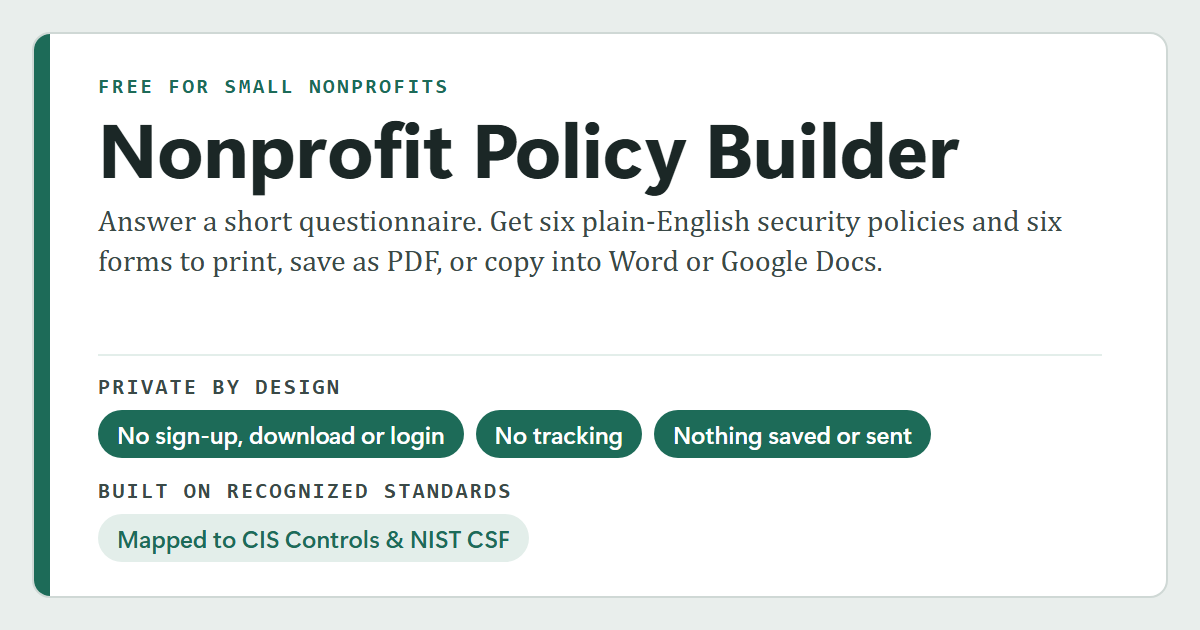
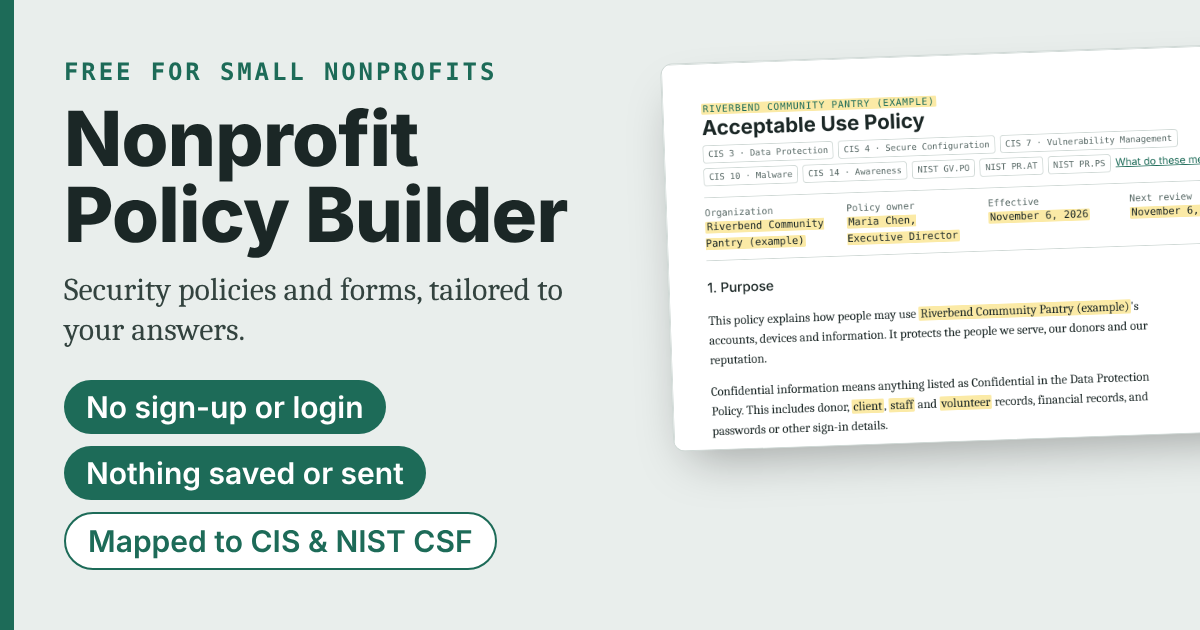
Replace the share preview picture and shorten the share tags
New og-image.png with a sample Acceptable Use Policy; shorter
og:title, og:description and og:image:alt on both pages, plus
og:image:type. How to use this page, step 1, now says
"or leave blank."

Changed region(s): [[0.0, 0.0, 1.0, 1.0]]

diff --git a/app/index.html b/app/index.html
@@ -14,13 +14,14 @@
 <!-- Share previews (LinkedIn, Facebook, Teams, Slack, Discord, messaging apps). TODO: replace [LIVE SITE URL] with the site's full address once it is live. -->
 <meta property="og:type" content="website">
 <meta property="og:site_name" content="Nonprofit Policy Builder">
-<meta property="og:title" content="Nonprofit Policy Builder: free, private security policies for small nonprofits">
-<meta property="og:description" content="Free for small nonprofits. Answer a short questionnaire and get six plain-English security policies and six forms to print, save as PDF, or copy into Word or Google Docs. No sign-up, download or login. No tracking, and nothing you type is saved or sent.">
+<meta property="og:title" content="Nonprofit Policy Builder: Free, Private Security Policies">
+<meta property="og:description" content="Answer a short questionnaire and get six plain-English security policies and six forms. Free, no sign-up, and nothing you type is saved or sent.">
 <meta property="og:url" content="[LIVE SITE URL]/">
 <meta property="og:image" content="[LIVE SITE URL]/og-image.png">
 <meta property="og:image:width" content="1200">
 <meta property="og:image:height" content="630">
-<meta property="og:image:alt" content="Nonprofit Policy Builder: six security policies and six forms to print, save as PDF, or copy into Word or Google Docs. Private by design: no sign-up, download or login, no tracking, nothing saved or sent. Built on recognized standards: mapped to CIS Controls and NIST CSF.">
+<meta property="og:image:type" content="image/png">
+<meta property="og:image:alt" content="Nonprofit Policy Builder: free security policies and forms for small nonprofits, tailored to your answers. No sign-up or login, nothing saved or sent, mapped to CIS Controls and NIST CSF. Shows a sample Acceptable Use Policy.">
 <meta property="og:locale" content="en_US">
 <meta name="twitter:card" content="summary_large_image">
 <style>
@@ -387,7 +388,7 @@ footer.foot{border-top:1px solid var(--line);font-size:13px;color:var(--muted)}
       <div class="howto">
         <h2>How to use this page</h2>
         <ol>
-          <li><strong>Delete the sample answers</strong> and type in your own.</li>
+          <li><strong>Delete the sample answers</strong> and type in your own or leave blank.</li>
           <li><strong>Fill this out once, down to the last question.</strong> All twelve documents fill in for you as you type. Every question is optional, so skip any you can't answer and fill in the blank later.</li>
           <li><strong>Print or copy.</strong> Use "Print" or "Copy" for the document on screen, or "More" for some or all of them.</li>
           <li><strong>Fill in any blanks.</strong> Some details aren't asked for here, so add them after you copy the documents into your own files. Add or remove table rows there as needed.</li>

diff --git a/app/how.html b/app/how.html
@@ -14,12 +14,13 @@
 <meta property="og:type" content="website">
 <meta property="og:site_name" content="Nonprofit Policy Builder">
 <meta property="og:title" content="How the Nonprofit Policy Builder Works">
-<meta property="og:description" content="How the Nonprofit Policy Builder works: its CIS Controls and NIST CSF mappings, privacy (no sign-up, no tracking, nothing saved or sent), printing and copying, and security.">
+<meta property="og:description" content="How the Nonprofit Policy Builder works: framework mappings, privacy, printing and security. Nothing you type is saved or sent.">
 <meta property="og:url" content="[LIVE SITE URL]/how.html">
 <meta property="og:image" content="[LIVE SITE URL]/og-image.png">
 <meta property="og:image:width" content="1200">
 <meta property="og:image:height" content="630">
-<meta property="og:image:alt" content="Nonprofit Policy Builder: six security policies and six forms to print, save as PDF, or copy into Word or Google Docs. Private by design: no sign-up, download or login, no tracking, nothing saved or sent. Built on recognized standards: mapped to CIS Controls and NIST CSF.">
+<meta property="og:image:type" content="image/png">
+<meta property="og:image:alt" content="Nonprofit Policy Builder: free security policies and forms for small nonprofits, tailored to your answers. No sign-up or login, nothing saved or sent, mapped to CIS Controls and NIST CSF. Shows a sample Acceptable Use Policy.">
 <meta property="og:locale" content="en_US">
 <meta name="twitter:card" content="summary_large_image">
 <style>

diff --git a/README.md b/README.md
@@ -74,9 +74,9 @@ Like every website, the host that delivers the page sees visitors' IP addresses.
 
 When someone shares the site's link on LinkedIn, Facebook, Microsoft Teams, Slack, Discord or a messaging app, that app builds a preview card from Open Graph tags in each page's `<head>`. Both pages (`index.html` and `how.html`) have their own title, description and picture tags, plus a plain `meta name="description"` for search results.
 
-![The preview card: Nonprofit Policy Builder, with "Private by design" and "Built on recognized standards" rows](app/og-image.png)
+![The preview card: Nonprofit Policy Builder, "Free for small nonprofits", privacy and framework chips, and a sample Acceptable Use Policy](app/og-image.png)
 
-- **The picture** (`app/og-image.png`, 1200 × 630) was made for this project in the app's own colors and fonts. Privacy leads: a "Private by design" row says no sign-up, download or login, no tracking, and nothing saved or sent. A lighter "Built on recognized standards" row says the documents are mapped to CIS Controls and NIST CSF ("mapped to", not certified).
+- **The picture** (`app/og-image.png`, 1200 × 630) was made for this project in the app's own colors. On the left: "Free for small nonprofits", the name, "Security policies and forms, tailored to your answers.", two solid chips for privacy (No sign-up or login · Nothing saved or sent) and a lighter outlined chip, "Mapped to CIS & NIST CSF" ("mapped to", not certified). On the right: a tilted view of the sample Acceptable Use Policy with its tailored text highlighted.
 - **The title and description** repeat the privacy points, because some apps show a small picture or none.
 - **Privacy:** visitors' browsers ignore the tags. They load nothing and share nothing about the visitor. Only the app building the preview reads them, and it sees just the page with sample answers.
 - **Waiting on the live site:** `og:url` and `og:image` need full addresses, so they use the `[LIVE SITE URL]` placeholder until launch. Until then, a shared link shows no picture.
